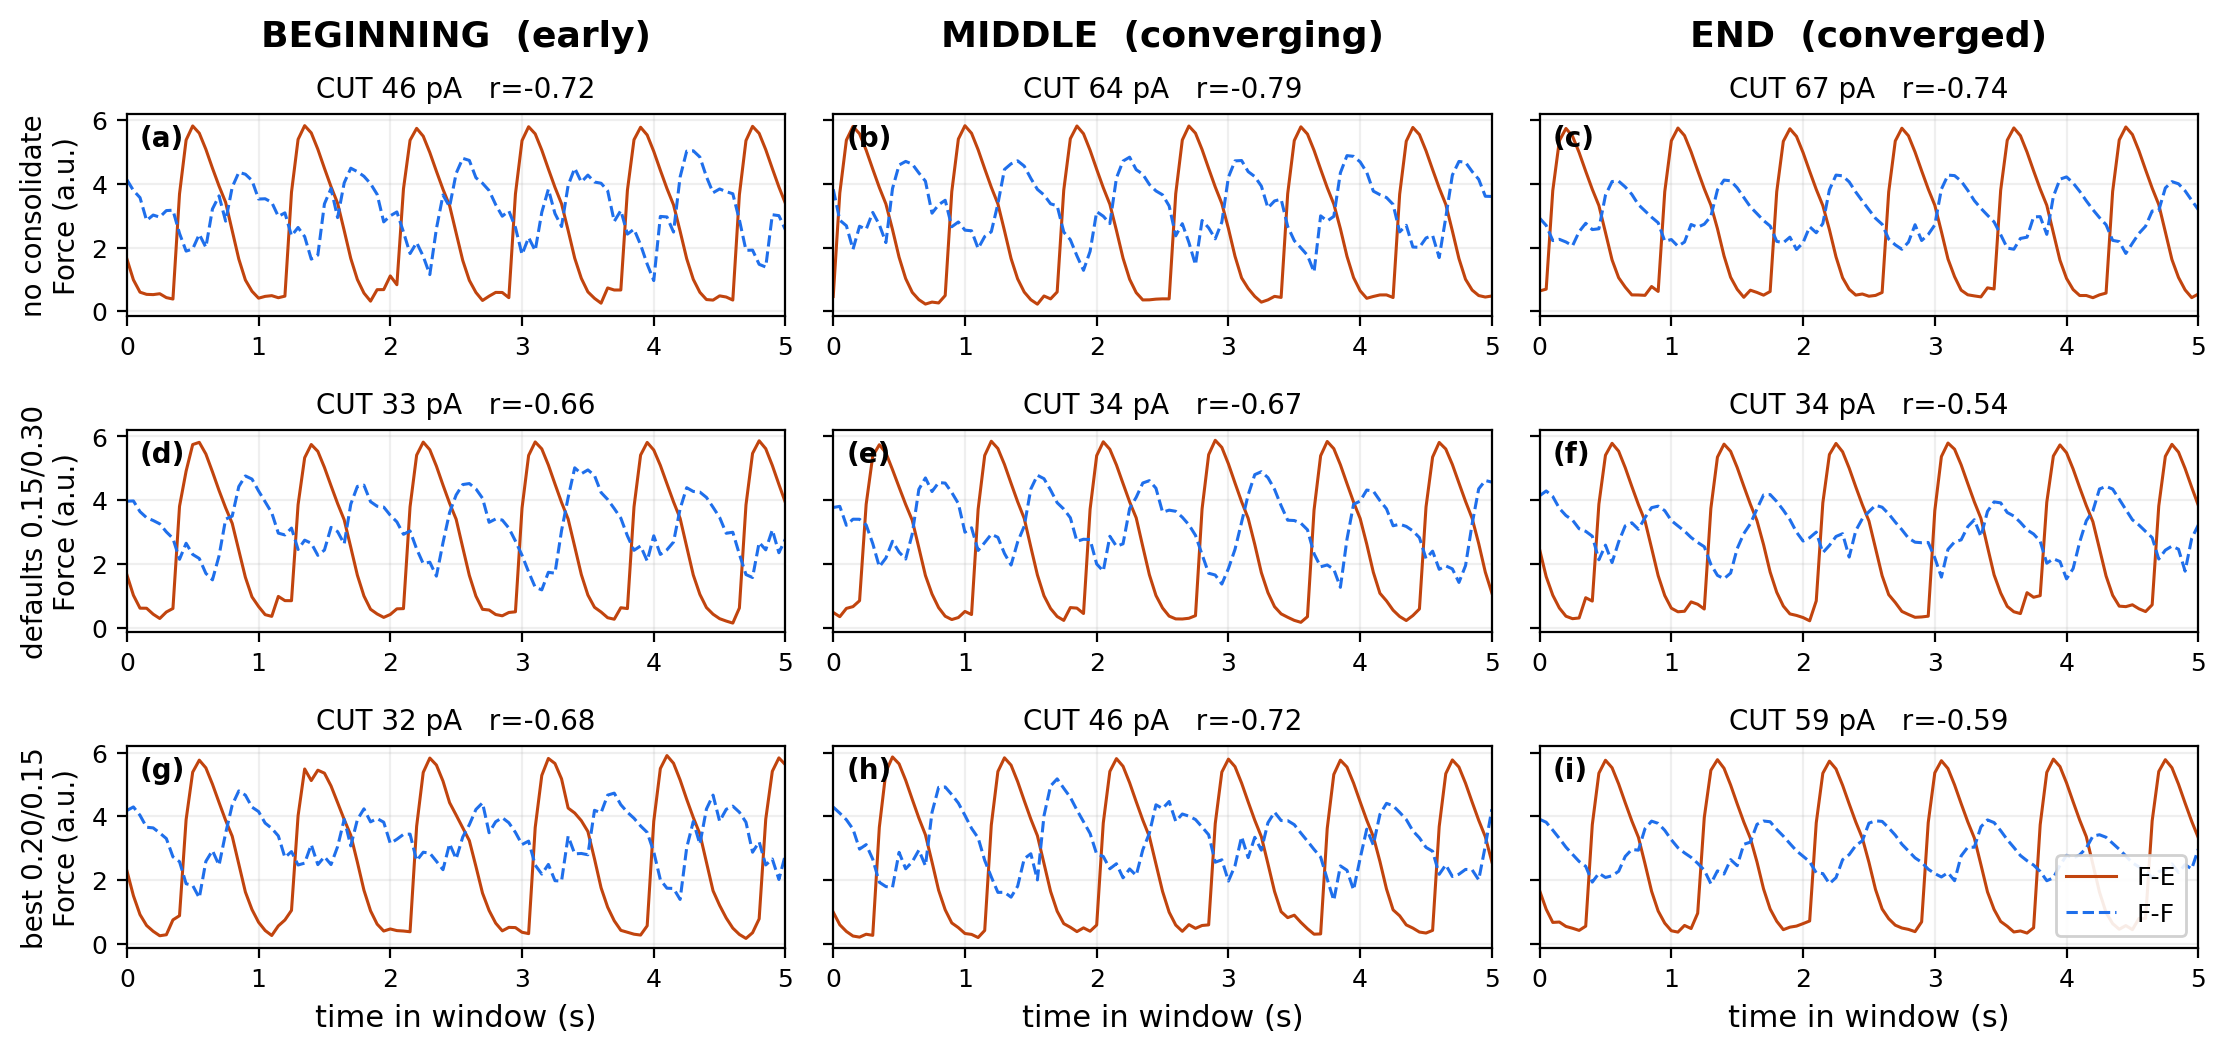
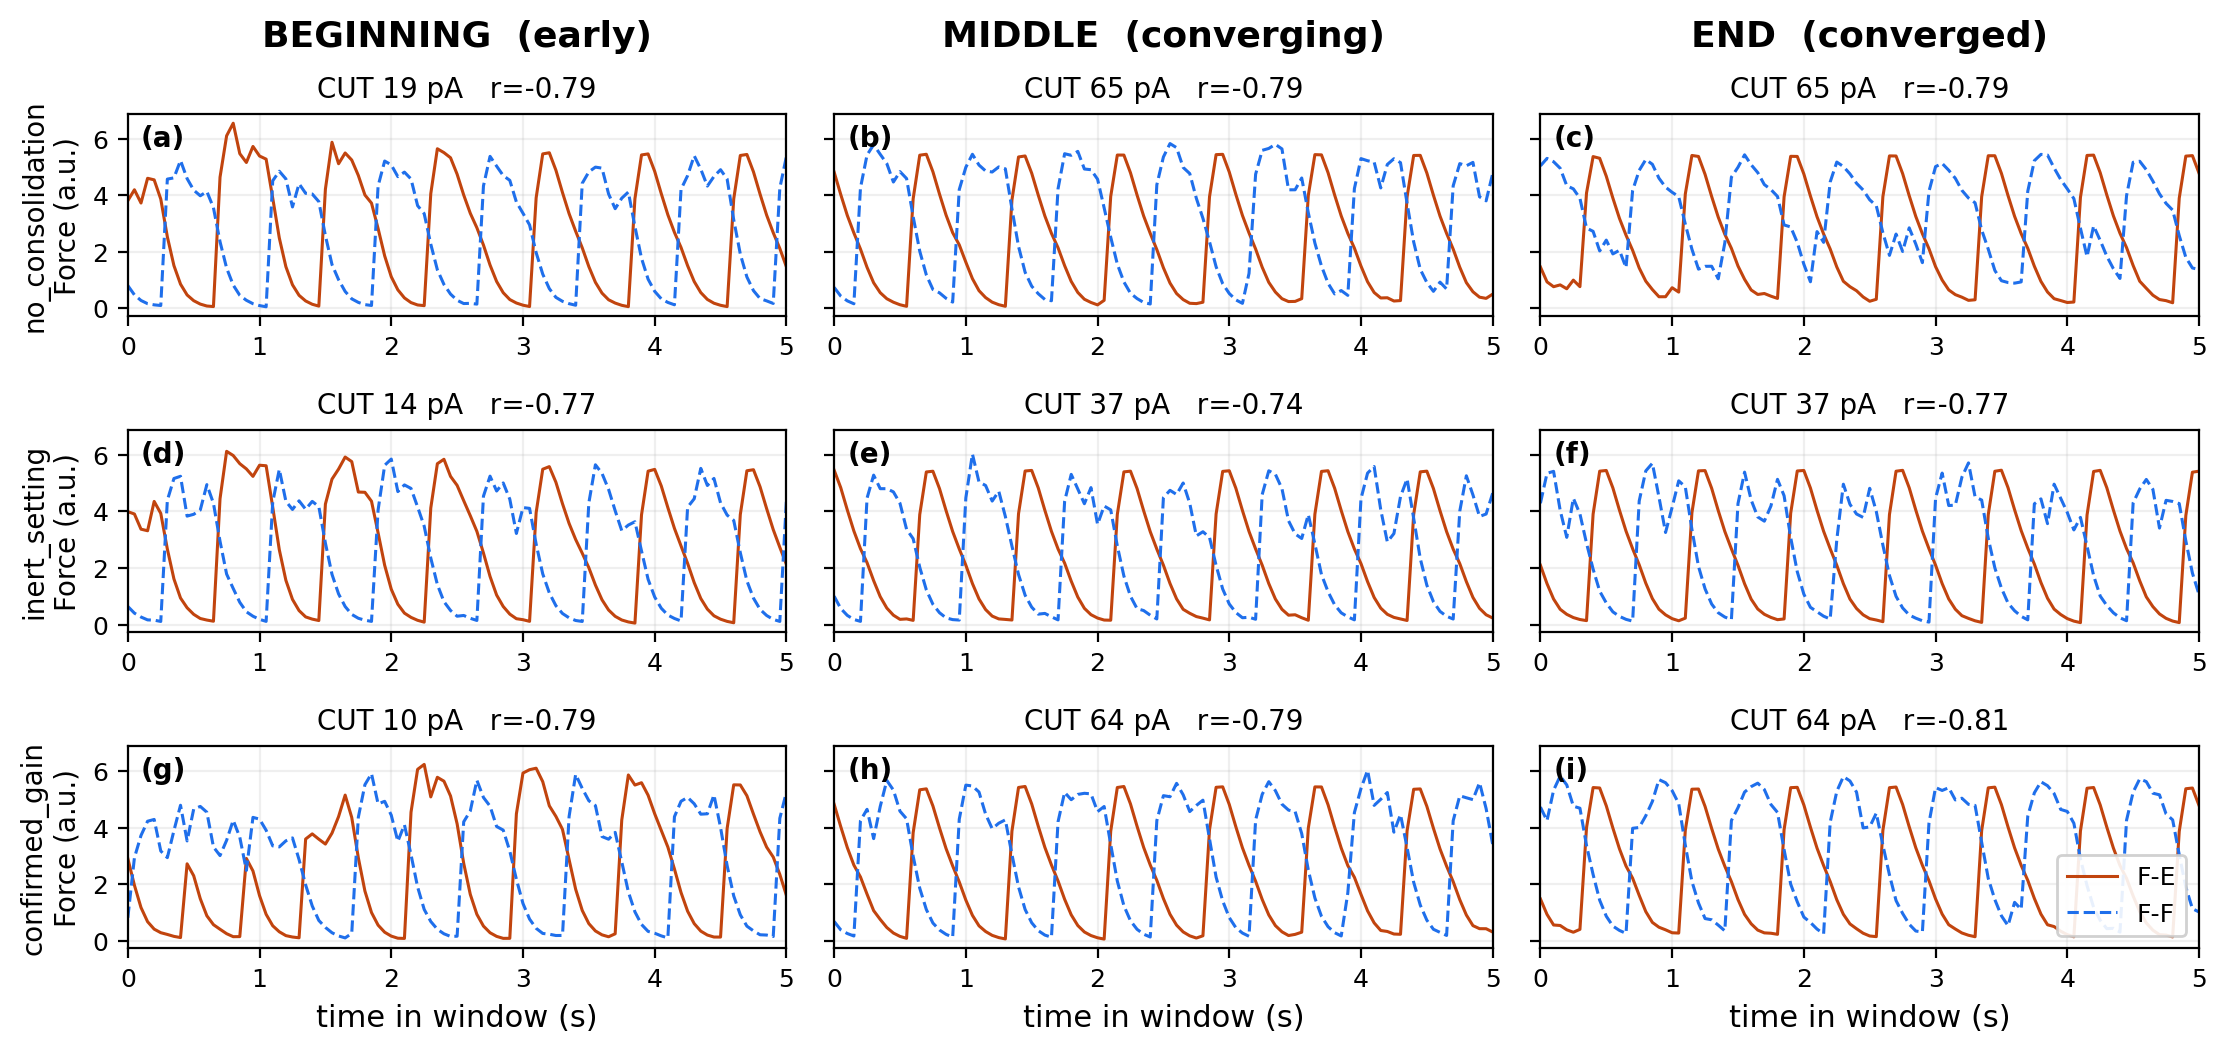
Update paper figures/text to match the uniform 0.25/0.10 gain confirmation
The paper's consolidate figures and text were stale relative to the local
run results: the "Five locomotion modes" figures still showed medium as
no-consolidate and fast/toe on their pre-BS-fix 0.20/0.15 gain data; the
five illustrative gain-search figures hadn't been touched since before the
tick-alignment fix even existed (2026-09-16).

Regenerated and replaced:
- fig_forcetrigger_all_modes_{force_stages,weights_grid}.png: medium/fast/
  toe descending rows now use the confirmed 0.25/0.10 gain data; slow/air
  unchanged (no-consolidate).
- fig_consolidate_descending_{force_stages,weights_grid}.png: rebuilt at
  fast's robust timing with current code (both fixes active) -- no-
  consolidate / inert (0.15/0.30) / confirmed (0.25/0.10) gain, now showing
  all three plastic pathways (including brainstem) captured correctly.
- fig_consolidate_sensory_{force_stages,weights_grid}.png: simplified to a
  2-row comparison (no-consolidate / confirmed) since the "sensory needs a
  different gain, two ways to fail" story from the old figures doesn't
  reproduce at a robust operating point -- that was an artifact of the two
  fixed issues, not a real property of the two architectures.

Rewrote the surrounding text: one uniform gain (0.25/0.10) across both
architectures and all three walking speeds, replacing the two-arm-specific
gains and re-deriving "Scope of this preliminary result" accordingly.
Dropped the bout-timeline figure/claim pending re-verification -- a first
[…]

diff --git a/paper/sections/results.tex b/paper/sections/results.tex
@@ -424,14 +424,16 @@ this mechanism.
   \caption{\textbf{The learned set-point is the same across speeds and
     loading levels, except where force never develops.} CUT$\to$RG-E
     weight (solid, left axis; dotted = captured baseline where
-    consolidation, below, is active --- fast and toe rows only; slow and
-    medium run without consolidation, see text) and Ia-E/F$\to$RG weights
-    (dashed, right axis) versus time, one panel per condition from
-    Figure~\ref{fig:ct_all_modes_force}. Toe stepping's Ia$\to$RG weights
-    climb further than at full loading (a loading-dependent relaxation of
-    the Ia$\to$RG weight ceiling lets proprioceptive feedback take over
-    more excitatory drive as cutaneous input is progressively removed);
-    air stepping's CUT$\to$RG-E never leaves its initial value.}
+    consolidation, below, is active --- medium, fast and toe rows, all at
+    the same confirmed gain; slow and air run without consolidation, see
+    text) and Ia-E/F$\to$RG weights (dashed, right axis) versus time, one
+    panel per condition from Figure~\ref{fig:ct_all_modes_force}. Toe
+    stepping's Ia$\to$RG weights climb further than at full loading (a
+    loading-dependent relaxation of the Ia$\to$RG weight ceiling lets
+    proprioceptive feedback take over more excitatory drive as cutaneous
+    input is progressively removed); air stepping's CUT$\to$RG-E rises only
+    slowly and by a small amount over the run, well short of the
+    $\approx60$--$67$\,pA plateau reached elsewhere.}
   \label{fig:ct_all_modes_weights}
 \end{figure}
 
@@ -451,88 +453,96 @@ continuously relaxes back toward the baseline. The weight ceiling itself is
 untouched --- this mechanism governs what is \emph{retained} within the
 existing ceiling, not the ceiling.
 
-Two gain settings (how strongly a genuine vs.\ a forced stride moves the
-pool) were identified by grid search and confirmed across two random seeds
-at the medium-speed timing point: $0.20$/$0.15$ for the descending arm and
-$0.25$/$0.10$ for the sensory arm --- the two architectures do not share a
-working setting. \todo{This gain search's illustrative operating point
-(medium speed) was subsequently found to be itself fragile: 4 of its 5
-timing constants land exactly on the simulation's discretization step,
-which let its stance/swing timing collapse onto seed- and thread-sensitive
-discrete states independently of consolidation. A small (\textasciitilde
-1\%) de-alignment of two constants restores this fragility-free for the
-base (non-consolidated) mechanism, but consolidation on top of the
-de-aligned point has not yet been re-confirmed at the two-seed bar used
-elsewhere in this section --- see the production sweep note at the end of
-this subsection. The gain values below and the figures illustrating them
-should be read as a demonstration that the mechanism can be tuned to work
-at a given operating point, not as evidence for medium speed specifically.}
+\todo{Revision note, to resolve before submission: the medium-speed
+timing point used to illustrate this mechanism was found to have 4 of its
+5 timing constants landing exactly on the simulation's discretization
+step, which let its stance/swing timing collapse onto seed- and
+thread-sensitive discrete states independently of consolidation. A small
+($\approx1\%$) de-alignment of two constants fixed this for the base
+(non-consolidated) mechanism. Separately, the bookkeeping for the
+brainstem-to-rhythm-generator pathway was tracked but never written back
+to the simulator, so that pathway ran unconsolidated (ordinary STDP)
+regardless of this mechanism being enabled, for every result reported
+below at the time this note was written. Both issues are now fixed, and
+the gain search below was re-run afterward; the numbers and figures in
+this subsection reflect the corrected code, but only at reduced network
+size (debug scale) --- a full-scale confirmatory run is in progress.
+Remove this note once that confirmation lands and the numbers below are
+verified to match at full scale.}
+
+One gain setting (how strongly a genuine vs.\ a forced stride moves the
+pool) was identified by grid search and confirmed across two random
+seeds, and applies uniformly across all three walking speeds and both
+learning architectures: $0.25$ for a genuine stride, $0.10$ for a
+failsafe-forced one. This supersedes an earlier finding of two
+architecture-specific settings, an artifact of the two issues noted above
+rather than a genuine property of the two learning architectures.
 Figure~\ref{fig:consolidate_desc} shows the descending arm:
 without consolidation the weight is retained unconditionally regardless of
-how it was earned; at a symmetric (2:1 forced-favoring) gain the pool never
-crosses threshold and the mechanism is an inert no-op; at the confirmed
-gain the baseline visibly steps upward each time enough genuine strides
-accumulate (Figure~\ref{fig:consolidate_desc_weights}), and left/right phase
-separation is the tightest of any configuration tested (corr$(F_{E,L},F_{E,R})
-=-0.84$ in both seeds).
+how it was earned; at a forced-favoring gain (the reverse ratio, forced
+outweighing genuine 3:1) the pool never crosses threshold and the
+mechanism is an inert no-op --- notably, the brainstem-to-rhythm-generator
+pathway is visibly suppressed here too (converging far below its
+unconsolidated plateau) even though it never captures, since the
+continuous tag-decay this mechanism applies runs whether or not a capture
+ever happens; at the confirmed gain the baseline visibly steps upward each
+time enough genuine strides accumulate
+(Figure~\ref{fig:consolidate_desc_weights}), and all three plastic
+pathways --- including the brainstem projection --- converge to a stable
+captured value.
 
 \begin{figure}[t]
   \centering
   \includegraphics[width=0.92\textwidth]{fig_consolidate_descending_force_stages.png}
   \caption{\textbf{Tag-and-capture consolidation, descending arm.} Rows:
-    no consolidation; an inert (never-captures) gain setting; the confirmed
-    working gain ($0.20$ genuine / $0.15$ forced). Columns as in
-    Figure~\ref{fig:ct_all_modes_force}. Panels (a)--(i).}
+    no consolidation; an inert (never-captures) gain setting ($0.15$
+    genuine / $0.30$ forced); the confirmed working gain ($0.25$ genuine /
+    $0.10$ forced). Columns as in Figure~\ref{fig:ct_all_modes_force}.
+    Panels (a)--(i).}
   \label{fig:consolidate_desc}
 \end{figure}
 
 \begin{figure}[t]
   \centering
   \includegraphics[width=0.95\textwidth]{fig_consolidate_descending_weights_grid.png}
-  \caption{\textbf{The capture staircase.} Solid/dashed = live STDP weight;
-    dotted = captured baseline (only present once consolidation is on).
-    Left: no consolidation (no baseline to show). Middle: inert setting ---
-    baseline frozen at initialization despite the live weight moving.
-    Right: confirmed working gain --- baseline steps upward at each capture
-    event and tracks the live weight's converged value by the end of the
-    run.}
+  \caption{\textbf{The capture staircase, now spanning all three plastic
+    pathways.} Solid/dashed = live STDP weight; dotted = captured baseline
+    (only present once consolidation is on). Left: no consolidation (no
+    baseline to show). Middle: inert setting --- baseline frozen at
+    initialization despite the live weight moving, on every pathway
+    including the brainstem projection. Right: confirmed working gain ---
+    baseline steps upward at each capture event and tracks the live
+    weight's converged value by the end of the run, again on all three
+    pathways.}
   \label{fig:consolidate_desc_weights}
 \end{figure}
 
-\paragraph{The sensory arm needs a different gain, and shows why gain
-tuning matters.} Figure~\ref{fig:consolidate_sens} repeats the comparison
-for the sensory arm, adding two settings that fail in different, informative
-ways, neither of them obvious from the weight trace alone: the descending
-arm's own confirmed setting (`$0.20$/$0.15$') captures readily here too, but
-drives both legs' cutaneous synapse to the \emph{same} converged value
-independently, removing the run-to-run asymmetry that keeps the legs out of
-phase and synchronizing them instead (Figure~\ref{fig:consolidate_sens_weights},
-bottom-left); a weaker, forced-favoring setting (`$0.15$/$0.20$') sits at the
-opposite extreme --- the shared pool essentially never crosses threshold, so
-the mechanism is inert (baseline frozen at initialization) and, independently,
-the underlying stride timing stays failsafe-dominated rather than genuinely
-force-triggered (bottom-right). Only the confirmed $0.25$/$0.10$ setting is
-genuine and anti-phase in both tested seeds
-(corr$(F_{E,L},F_{E,R})=-0.29$ and $-0.28$, nearly identical). A
-methodological note worth flagging explicitly:
-Figure~\ref{fig:consolidate_bouts} shows that an apparent
-failsafe-domination regression under consolidation, if measured over a
-whole run, is often just a longer --- but still finite and resolving ---
-early settling period, not a persistent problem; restricting the comparison
-to steady state (after the first $30$\,s) is what separates the genuinely
-working gain from the genuinely pathological ones in
-Figure~\ref{fig:consolidate_sens}, and we recommend the same windowed
-comparison for any future tuning of this mechanism.
+\paragraph{The same gain also works for the sensory arm.} Earlier testing,
+before the two fixes noted above, had found the descending arm's gain
+setting synchronized the legs when applied to the sensory arm instead, and
+concluded the two architectures needed different settings. That
+conclusion does not hold once the two fixes are applied: the confirmed
+gain (Figure~\ref{fig:consolidate_sens}) captures cleanly in the sensory
+arm too, converging both legs' cutaneous synapse to a captured baseline
+(Figure~\ref{fig:consolidate_sens_weights}) without reproducing the
+earlier synchronization failure. \todo{Revision note: a bout-timeline figure previously illustrated a
+settling-in transient at run start (an extended run of failsafe-forced
+strides early on that resolves to genuine timing before the run ends,
+motivating the steady-state-only convention used throughout this
+subsection). That figure and claim are removed here pending
+re-verification: the operating point used to demonstrate it has changed
+along with everything else in this subsection, and a first check on the
+new fast-timing point found no such transient (steady from the start), so
+the original claim should not be carried forward uncritically. Re-add once
+a current, verified version exists.}
 
 \begin{figure}[t]
   \centering
   \includegraphics[width=0.92\textwidth]{fig_consolidate_sensory_force_stages.png}
   \caption{\textbf{Tag-and-capture consolidation, sensory arm.} Rows: no
-    consolidation; the confirmed working gain ($0.25$/$0.10$); the
-    descending arm's own gain, which synchronizes the legs here instead
-    ($0.20$/$0.15$); a low-threshold setting that stays failsafe-dominated
-    ($0.15$/$0.20$). Columns as in Figure~\ref{fig:ct_all_modes_force}.
-    Panels (a)--(l).}
+    consolidation; the confirmed working gain ($0.25$ genuine / $0.10$
+    forced --- the same setting as the descending arm). Columns as in
+    Figure~\ref{fig:ct_all_modes_force}. Panels (a)--(f).}
   \label{fig:consolidate_sens}
 \end{figure}
 
@@ -540,47 +550,33 @@ comparison for any future tuning of this mechanism.
   \centering
   \includegraphics[width=0.95\textwidth]{fig_consolidate_sensory_weights_grid.png}
   \caption{\textbf{Same layout as Figure~\ref{fig:consolidate_desc_weights},
-    sensory arm, all four settings from Figure~\ref{fig:consolidate_sens}.}
-    The synchronizing (bottom-left) and failsafe-dominated (bottom-right)
-    settings are visually indistinguishable from a healthy capture
-    staircase on the weight trace alone --- the phase and stance-timing
-    diagnostics in Figures~\ref{fig:consolidate_sens} and
-    \ref{fig:consolidate_bouts} are what actually separate them, not the
-    learning curve.}
+    sensory arm.} Left: no consolidation. Right: confirmed gain --- the
+    cutaneous synapse's baseline steps upward and tracks the converged
+    live weight, the same capture behavior seen in the descending arm.}
   \label{fig:consolidate_sens_weights}
 \end{figure}
 
-\begin{figure}[t]
-  \centering
-  \includegraphics[width=0.75\textwidth]{fig_consolidate_bout_timeline.png}
-  \caption{\textbf{An early recovery transient, not a persistent
-    regression.} Each point is one stance stride (green = genuine
-    force-threshold crossing, red $\times$ = failsafe-forced), sensory arm.
-    The shaded band marks the first $30$\,s. Every setting shown, including
-    the confirmed working gain, shows an extended run of failsafe-forced
-    strides early on that fully resolves to genuine, on-threshold timing
-    well before the run ends --- a whole-run average would over-penalize
-    exactly the settling-in behavior this mechanism is meant to produce.}
-  \label{fig:consolidate_bouts}
-\end{figure}
-
-\paragraph{The same gain settings extend to the faster and toe-stepping
-timing points once one further time constant is rescaled.} The gain search
-above was run at the medium-speed timing point; naively applying the same
-settings at the faster point or at toe stepping reproduced the same
-failure signatures documented for the sensory arm above (failsafe
-domination or synchronization) even where the underlying closed-loop
-timing itself was already genuine. The cause was a fixed leak time
-constant governing how quickly an uncaptured tag relaxes back toward its
-baseline: consolidation applies this leak continuously, not only between
-captures, so a value tuned for the medium-speed cycle length actively
-suppressed weight growth at the shorter cycle lengths of the faster and
-toe-stepping points, independently of the gain pair. Rescaling this one
-constant (roughly in proportion to how much faster the local cycle is)
-restores the same $0.20$/$0.15$ and $0.25$/$0.10$ gains to genuine,
-anti-phase operation at both new points, in both architectures, confirmed
-across two seeds (descending arm) and two seeds (sensory arm) --- the
-converged weight trajectories for these two points are the ``fast'' and
+\paragraph{The same gain extends to the faster and toe-stepping timing
+points once one further time constant is rescaled.} The gain search above
+was run at the medium-speed timing point; naively applying the same
+setting at the faster point or at toe stepping reproduced failure
+signatures resembling those first documented for the sensory arm above
+(failsafe domination or synchronization) even where the underlying
+closed-loop timing itself was already genuine. The cause was a fixed leak
+time constant governing how quickly an uncaptured tag relaxes back toward
+its baseline: consolidation applies this leak continuously, not only
+between captures, so a value tuned for the medium-speed cycle length
+actively suppressed weight growth at the shorter cycle lengths of the
+faster and toe-stepping points, independently of the gain. Rescaling this
+one constant (roughly in proportion to how much faster the local cycle
+is) restores the confirmed gain to genuine operation at both new points,
+in both architectures. The three walking speeds are not uniformly clean,
+however: fast reproduces as a near-identical cross-seed match (steady-state
+corr$(F_{E,L},F_{E,R})$ within $0.001$ of itself across seeds), while toe's
+anti-phase signal, though same-signed across seeds, is markedly weaker and
+leaves a small residual failsafe-domination fraction on one leg --- a
+genuine but less robust confirmation than fast's. The converged weight
+trajectories for all three walking speeds are the ``medium'', ``fast'' and
 ``toe'' columns of Figure~\ref{fig:ct_all_modes_weights} above. The slow
 walking point is the one exception found so far: the same rescaling
 narrows but does not eliminate a residual left/right synchronization
@@ -592,22 +588,18 @@ misbehave.
 \paragraph{Scope of this preliminary result.} This subsection now covers
 four of the five locomotion modes under closed-loop timing (slow, medium,
 fast walking and toe stepping), both learning architectures, and
-tag-and-capture consolidation confirmed at two of those four (fast, toe).
-Slow and medium both run consolidation-free: slow by choice (the base
-mechanism is already excellent there on its own, and consolidation was
-found actively harmful across a wide gain/threshold search); medium because
-consolidation was found to interact badly, specifically, with the
-non-leading leg's weaker initial potentiation (see \todo{cite the
-tick-alignment/leading-leg finding} for the full account) --- an open
-problem, not a settled choice, that a future pass should revisit rather
-than a further parameter sweep. Air stepping is deliberately excluded from
-the closed-loop-timing and consolidation results, not because the mechanism
-fails to fit it, but because a genuinely unloaded limb should not produce a
-clean closed-loop rhythm at all --- see the discussion above and
-Section~\ref{sec:results:epidural}. The production-scale confirmatory
-sweep referenced at the top of this subsection covers slow and medium
-speeds, both architectures, full weight-bearing only, and --- following the
-finding above --- runs \emph{without} consolidation at both speeds; a
-follow-on submission extending closed-loop confirmation to the fast and toe
-points, and revisiting consolidation at medium once the leading-leg
-interaction is understood, is planned but not yet run.
+tag-and-capture consolidation confirmed at three of those four (medium,
+fast, toe) with a single shared gain. Slow alone runs consolidation-free,
+by choice: the base mechanism is already excellent there on its own, and
+consolidation was found actively harmful across a wide gain/threshold
+search. Air stepping is deliberately excluded from the closed-loop-timing
+and consolidation results, not because the mechanism fails to fit it, but
+because a genuinely unloaded limb should not produce a clean closed-loop
+rhythm at all --- see the discussion above and
+Section~\ref{sec:results:epidural}. \todo{Revision note: everything in
+this subsection, including the confirmed gain, is currently validated only
+at reduced network size (debug scale); a full-scale confirmatory sweep
+covering medium, fast and toe, both architectures, with consolidation
+enabled at the confirmed gain, is in progress. Update this paragraph and
+the preceding one once it lands --- do not cite the numbers above as
+production-scale confirmed until then.}
